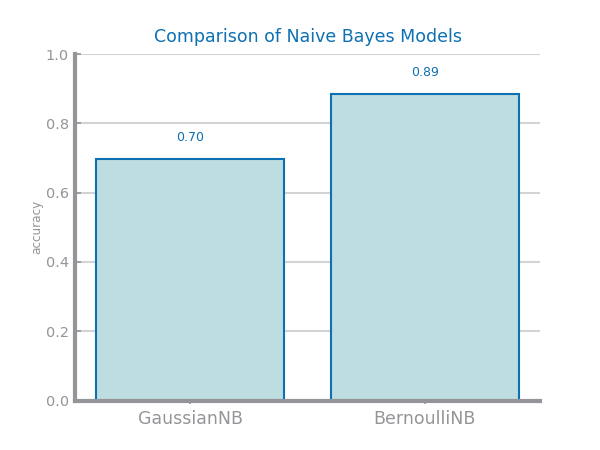
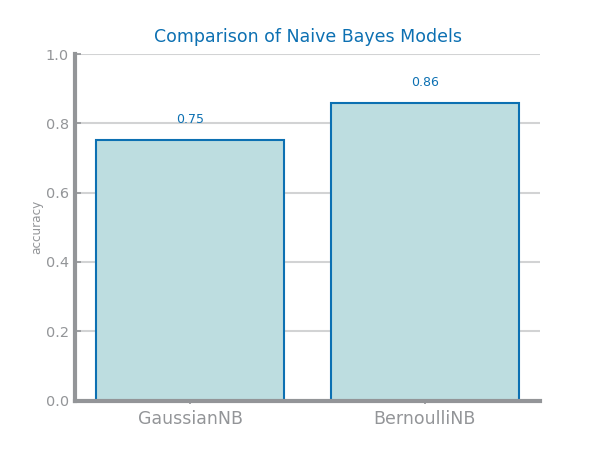
Added all alternatives for nb for set2

Changed region(s): [[0.15, 0.2489, 0.48, 0.3733], [0.54, 0.1556, 0.87, 0.2489]]

diff --git a/lab04_naive_bayes_and_balancing/set2_nb_study.py b/lab04_naive_bayes_and_balancing/set2_nb_study.py
@@ -5,18 +5,19 @@ from sklearn.naive_bayes import GaussianNB
 from ds_charts import plot_evaluation_results, bar_chart
 
 file_tag = 'set2'
-filename = 'lab04_naive_bayes_and_balancing/ew_data/set2'
+filename = 'lab03_knn_and_scaling/ew_data/set2'
 target = 'ALARM'
 
+train: DataFrame = read_csv(f'lab04_naive_bayes_and_balancing/ew_data/set2_smote.csv')
 # train: DataFrame = read_csv(f'{filename}_train.csv')
-train: DataFrame = read_csv(f'{filename}_train_scaled.csv')
+# train: DataFrame = read_csv(f'{filename}_train.csv')
 trnY: ndarray = train.pop(target).values
 trnX: ndarray = train.values
 labels = unique(trnY)
 labels.sort()
 
 # test: DataFrame = read_csv(f'{filename}_test.csv')
-test: DataFrame = read_csv(f'{filename}_test_scaled.csv')
+test: DataFrame = read_csv(f'{filename}_test.csv')
 tstY: ndarray = test.pop(target).values
 tstX: ndarray = test.values
 
@@ -26,14 +27,14 @@ prd_trn = clf.predict(trnX)
 prd_tst = clf.predict(tstX)
 plot_evaluation_results(labels, trnY, prd_trn, tstY, prd_tst)
 # savefig(f'lab04_naive_bayes_and_balancing/images/{file_tag}/{file_tag}_nb_best.png')
-savefig(f'lab04_naive_bayes_and_balancing/images/{file_tag}/{file_tag}_nb_best_scaled.png')
+savefig(f'lab04_naive_bayes_and_balancing/images/{file_tag}/{file_tag}_nb_best_balancing_smote.png')
 show()
 
 from sklearn.naive_bayes import GaussianNB, MultinomialNB, BernoulliNB, CategoricalNB
 from sklearn.metrics import accuracy_score
 
 estimators = {'GaussianNB': GaussianNB(),
-            #   'MultinomialNB': MultinomialNB(),
+              'MultinomialNB': MultinomialNB(),
               'BernoulliNB': BernoulliNB()
               #'CategoricalNB': CategoricalNB
               }
@@ -48,6 +49,6 @@ for clf in estimators:
 
 figure()
 bar_chart(xvalues, yvalues, title='Comparison of Naive Bayes Models', ylabel='accuracy', percentage=True)
+savefig(f'lab04_naive_bayes_and_balancing/images/{file_tag}/{file_tag}_nb_study_balancing_smote.png')
 # savefig(f'lab04_naive_bayes_and_balancing/images/{file_tag}/{file_tag}_nb_study.png')
-savefig(f'lab04_naive_bayes_and_balancing/images/{file_tag}/{file_tag}_nb_study_scaled.png')
 show()

diff --git a/lab04_naive_bayes_and_balancing/set2_balancing.py b/lab04_naive_bayes_and_balancing/set2_balancing.py
@@ -2,7 +2,7 @@ from pandas import read_csv
 from matplotlib.pyplot import figure, savefig, show
 from ds_charts import bar_chart
 
-filename = 'lab03_knn_and_scaling/ew_data/set2_train_scaled.csv'
+filename = 'lab03_knn_and_scaling/ew_data/set2_train.csv'
 file = "set2"
 original = read_csv(filename, sep=',', decimal='.')
 class_var = 'ALARM'
